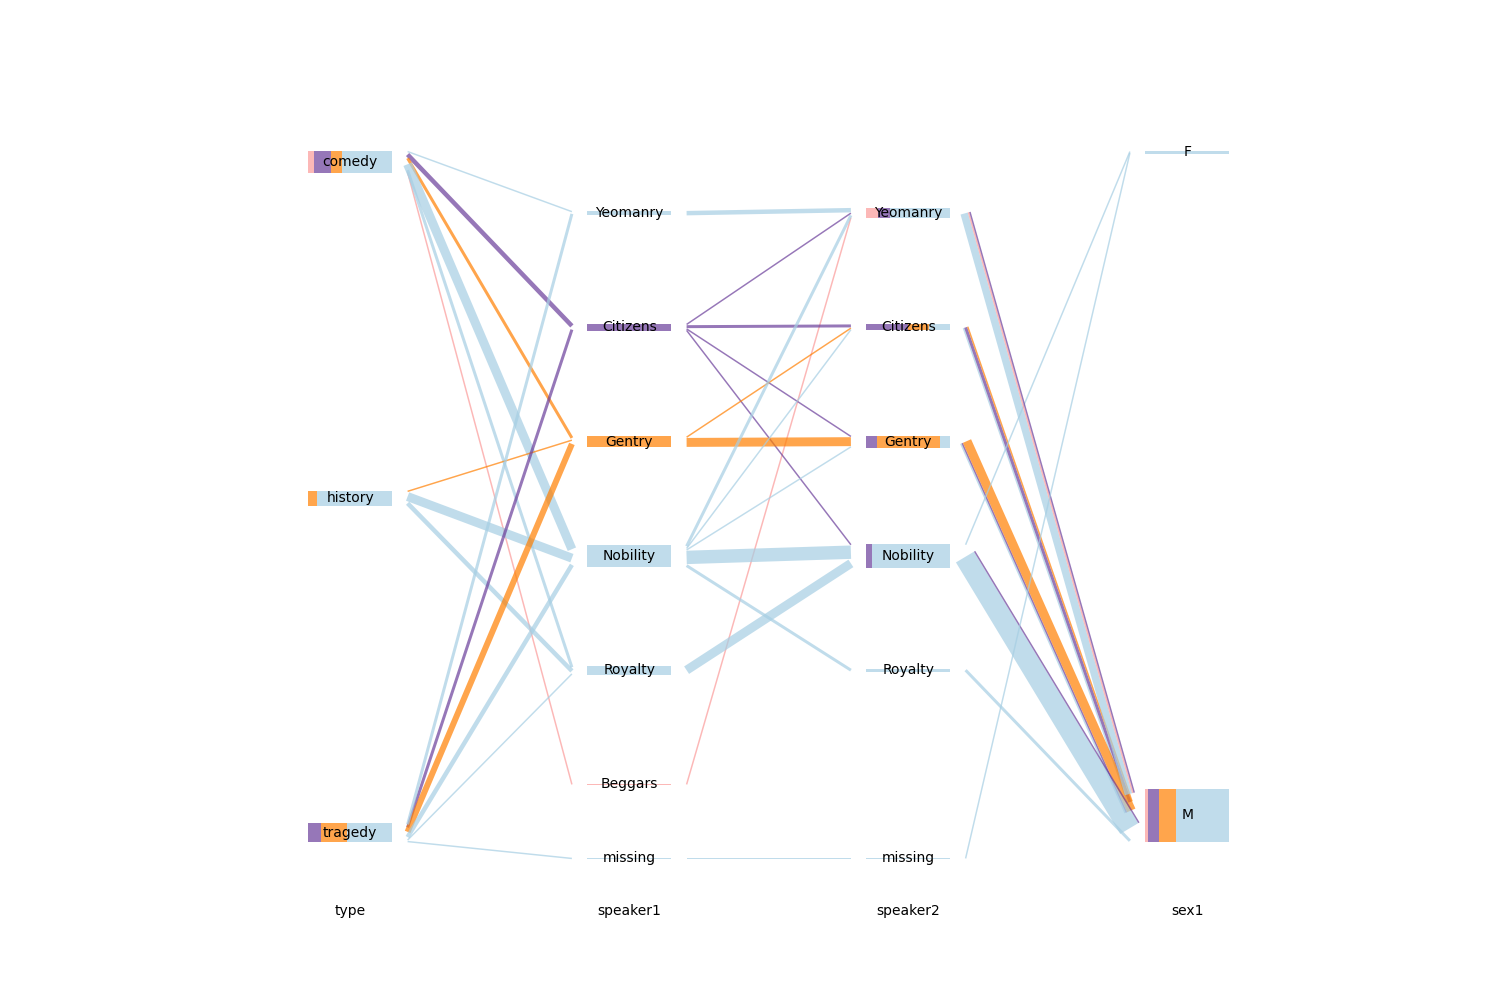
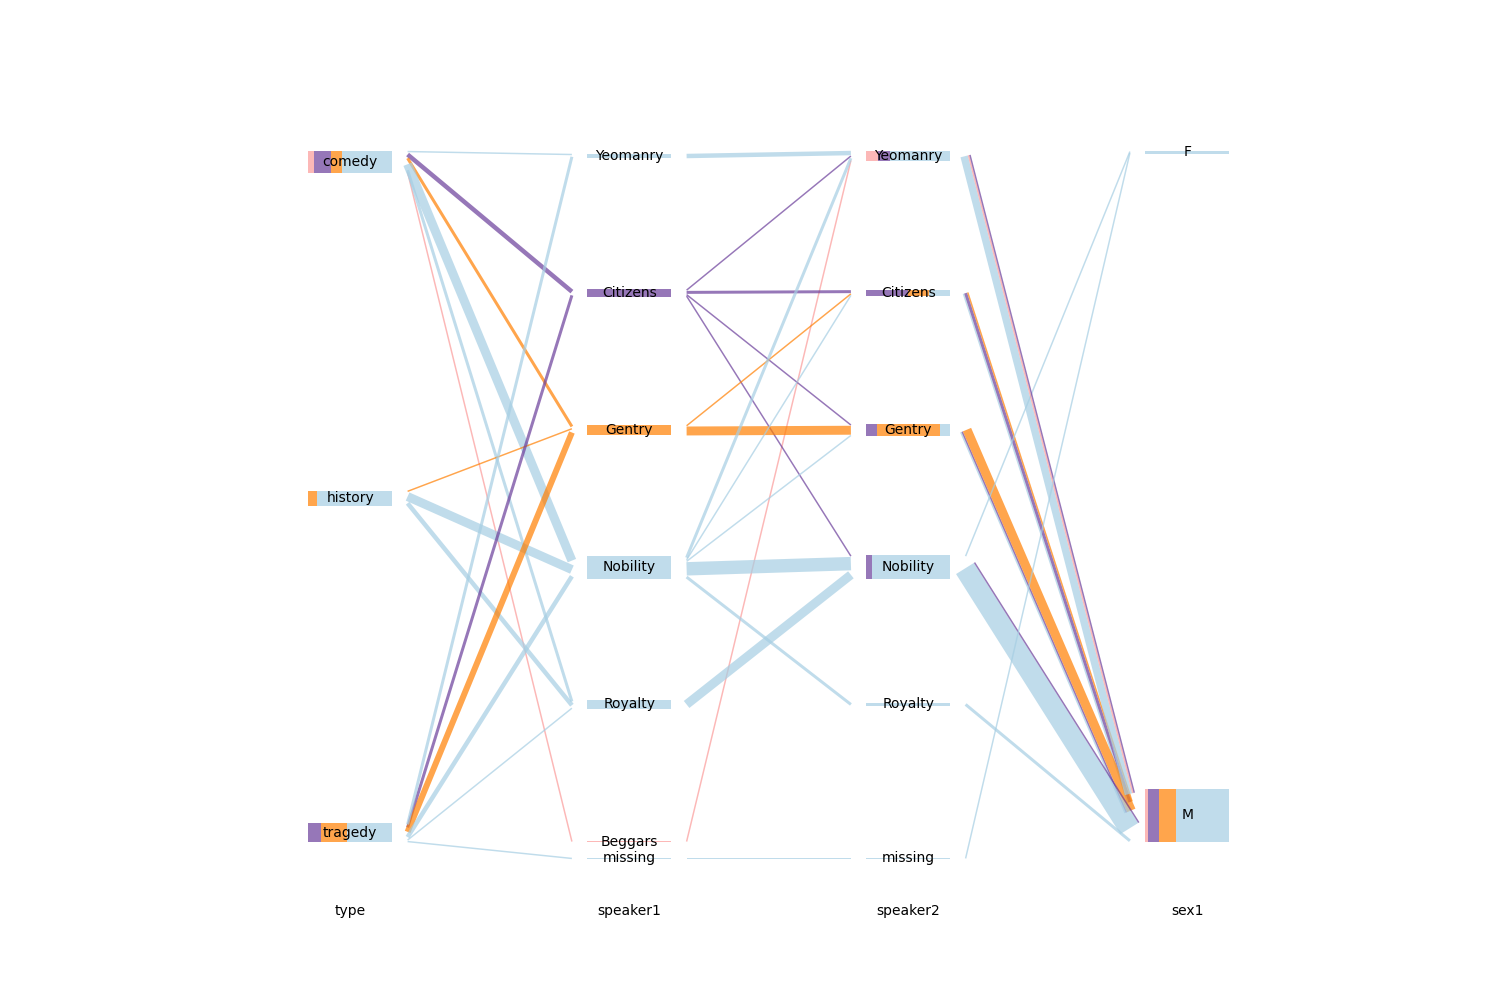
fix small error with same_scale

diff --git a/hammock_plot/unibar.py b/hammock_plot/unibar.py
@@ -189,11 +189,11 @@ class Unibar:
             n = len(self.non_missing_vals)
 
             # spacing between centers
-            step = (top - bottom) / n
+            step = (top - bottom) / (n - 1)
 
             for i, val in enumerate(self.non_missing_vals):
                 # place at center of each interval
-                pos = bottom + (i + 0.5) * step
+                pos = bottom + i * step
                 val.set_y(pos)
         
         # --- String/Categorical values (without same_scale) ---
